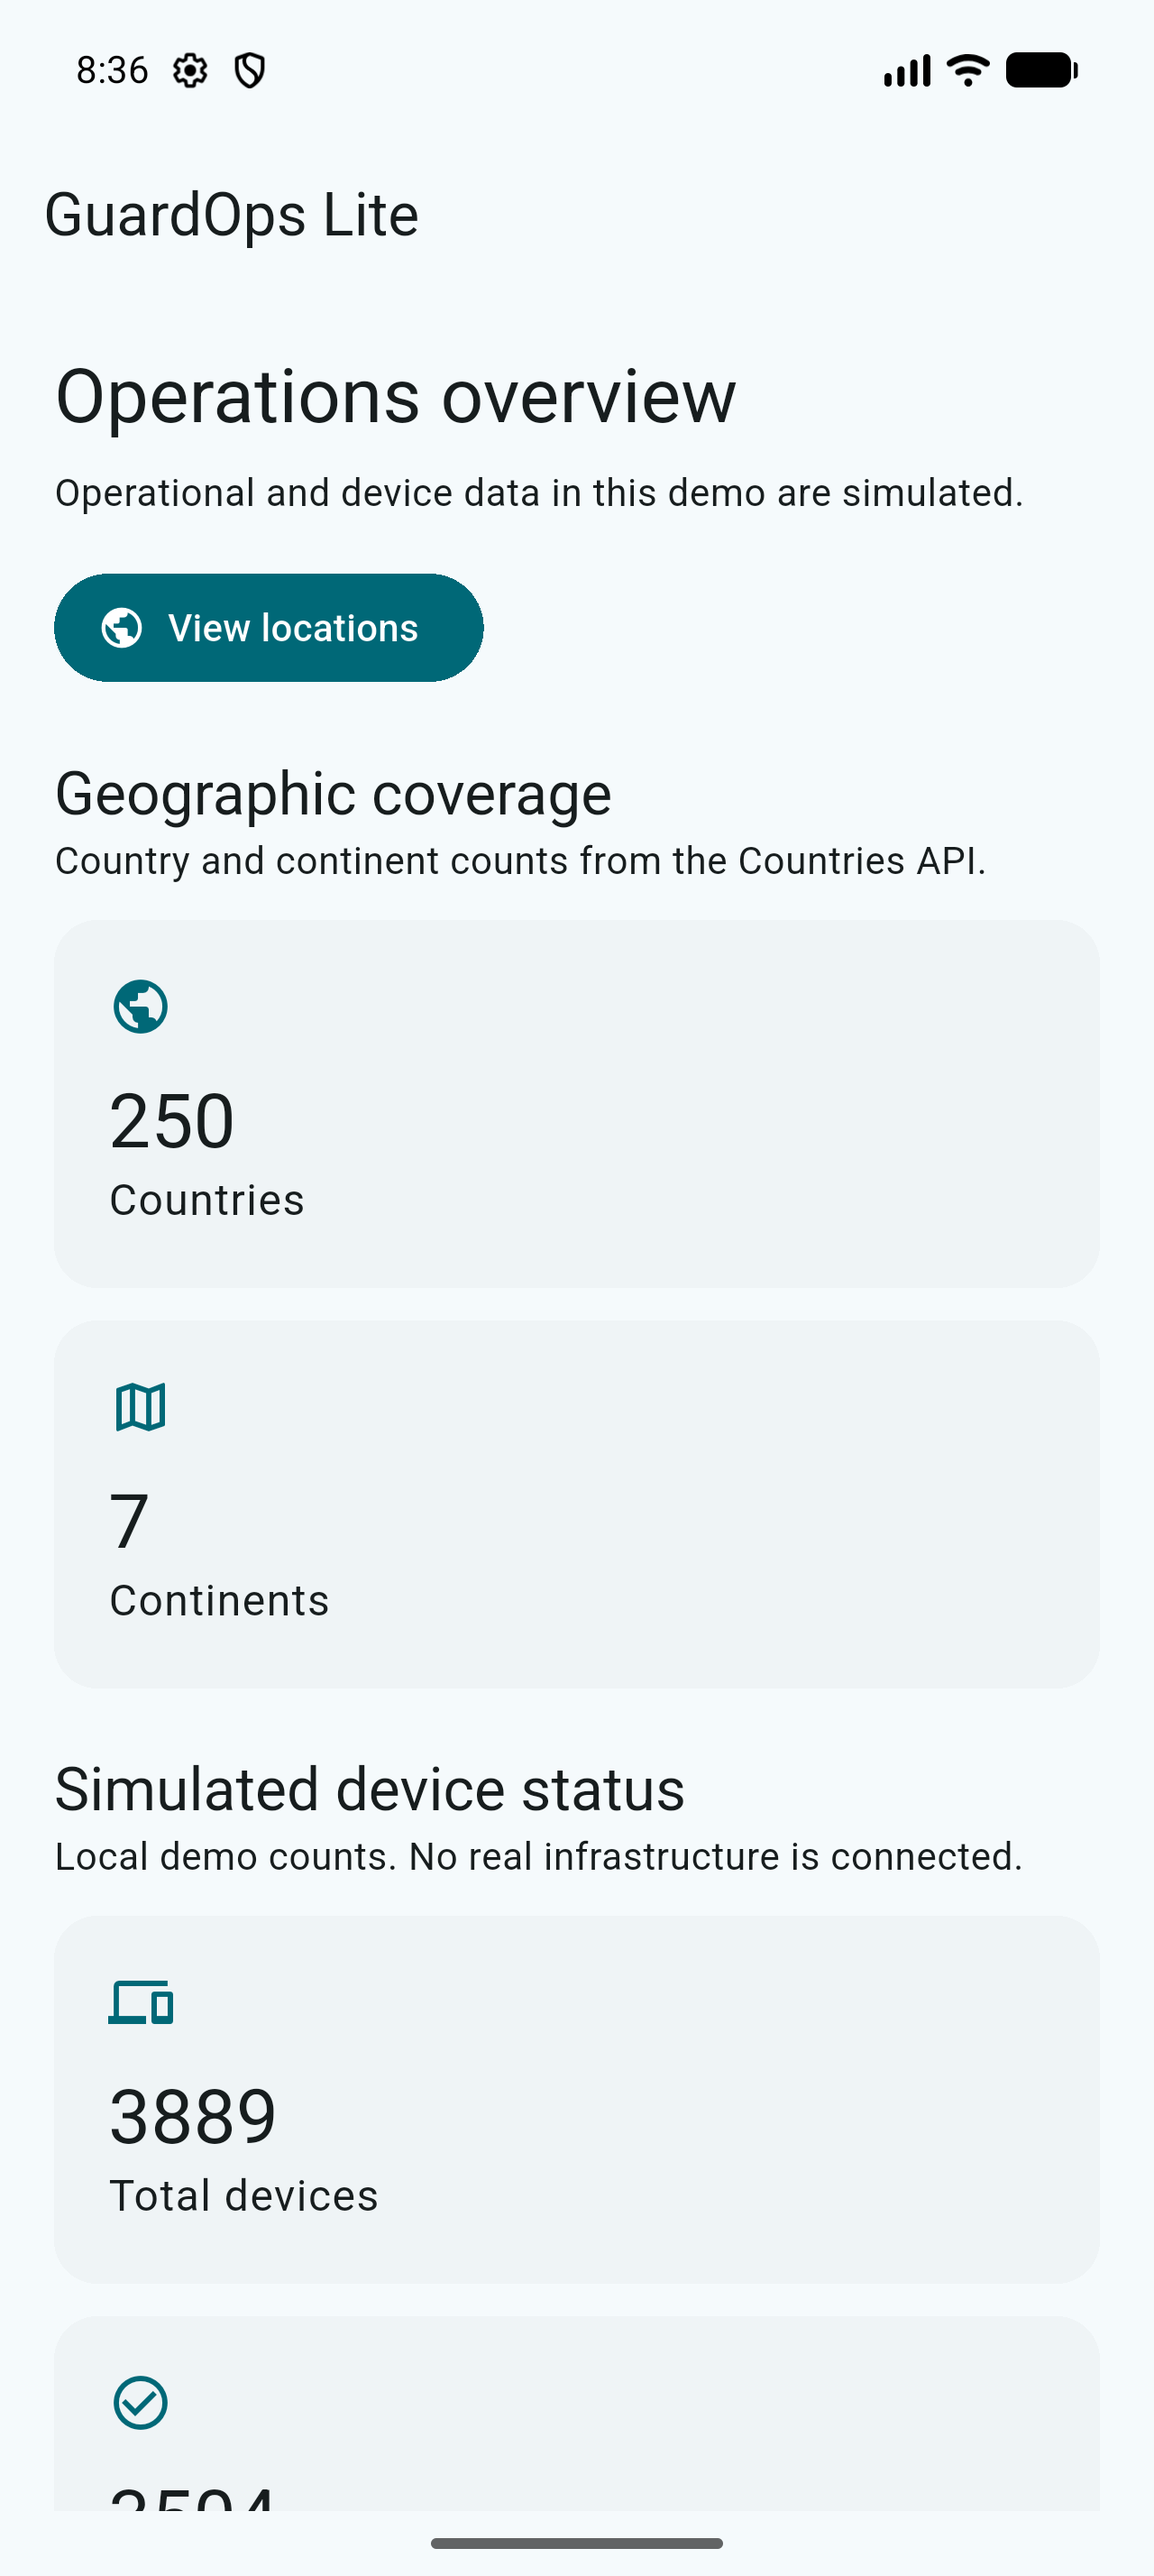
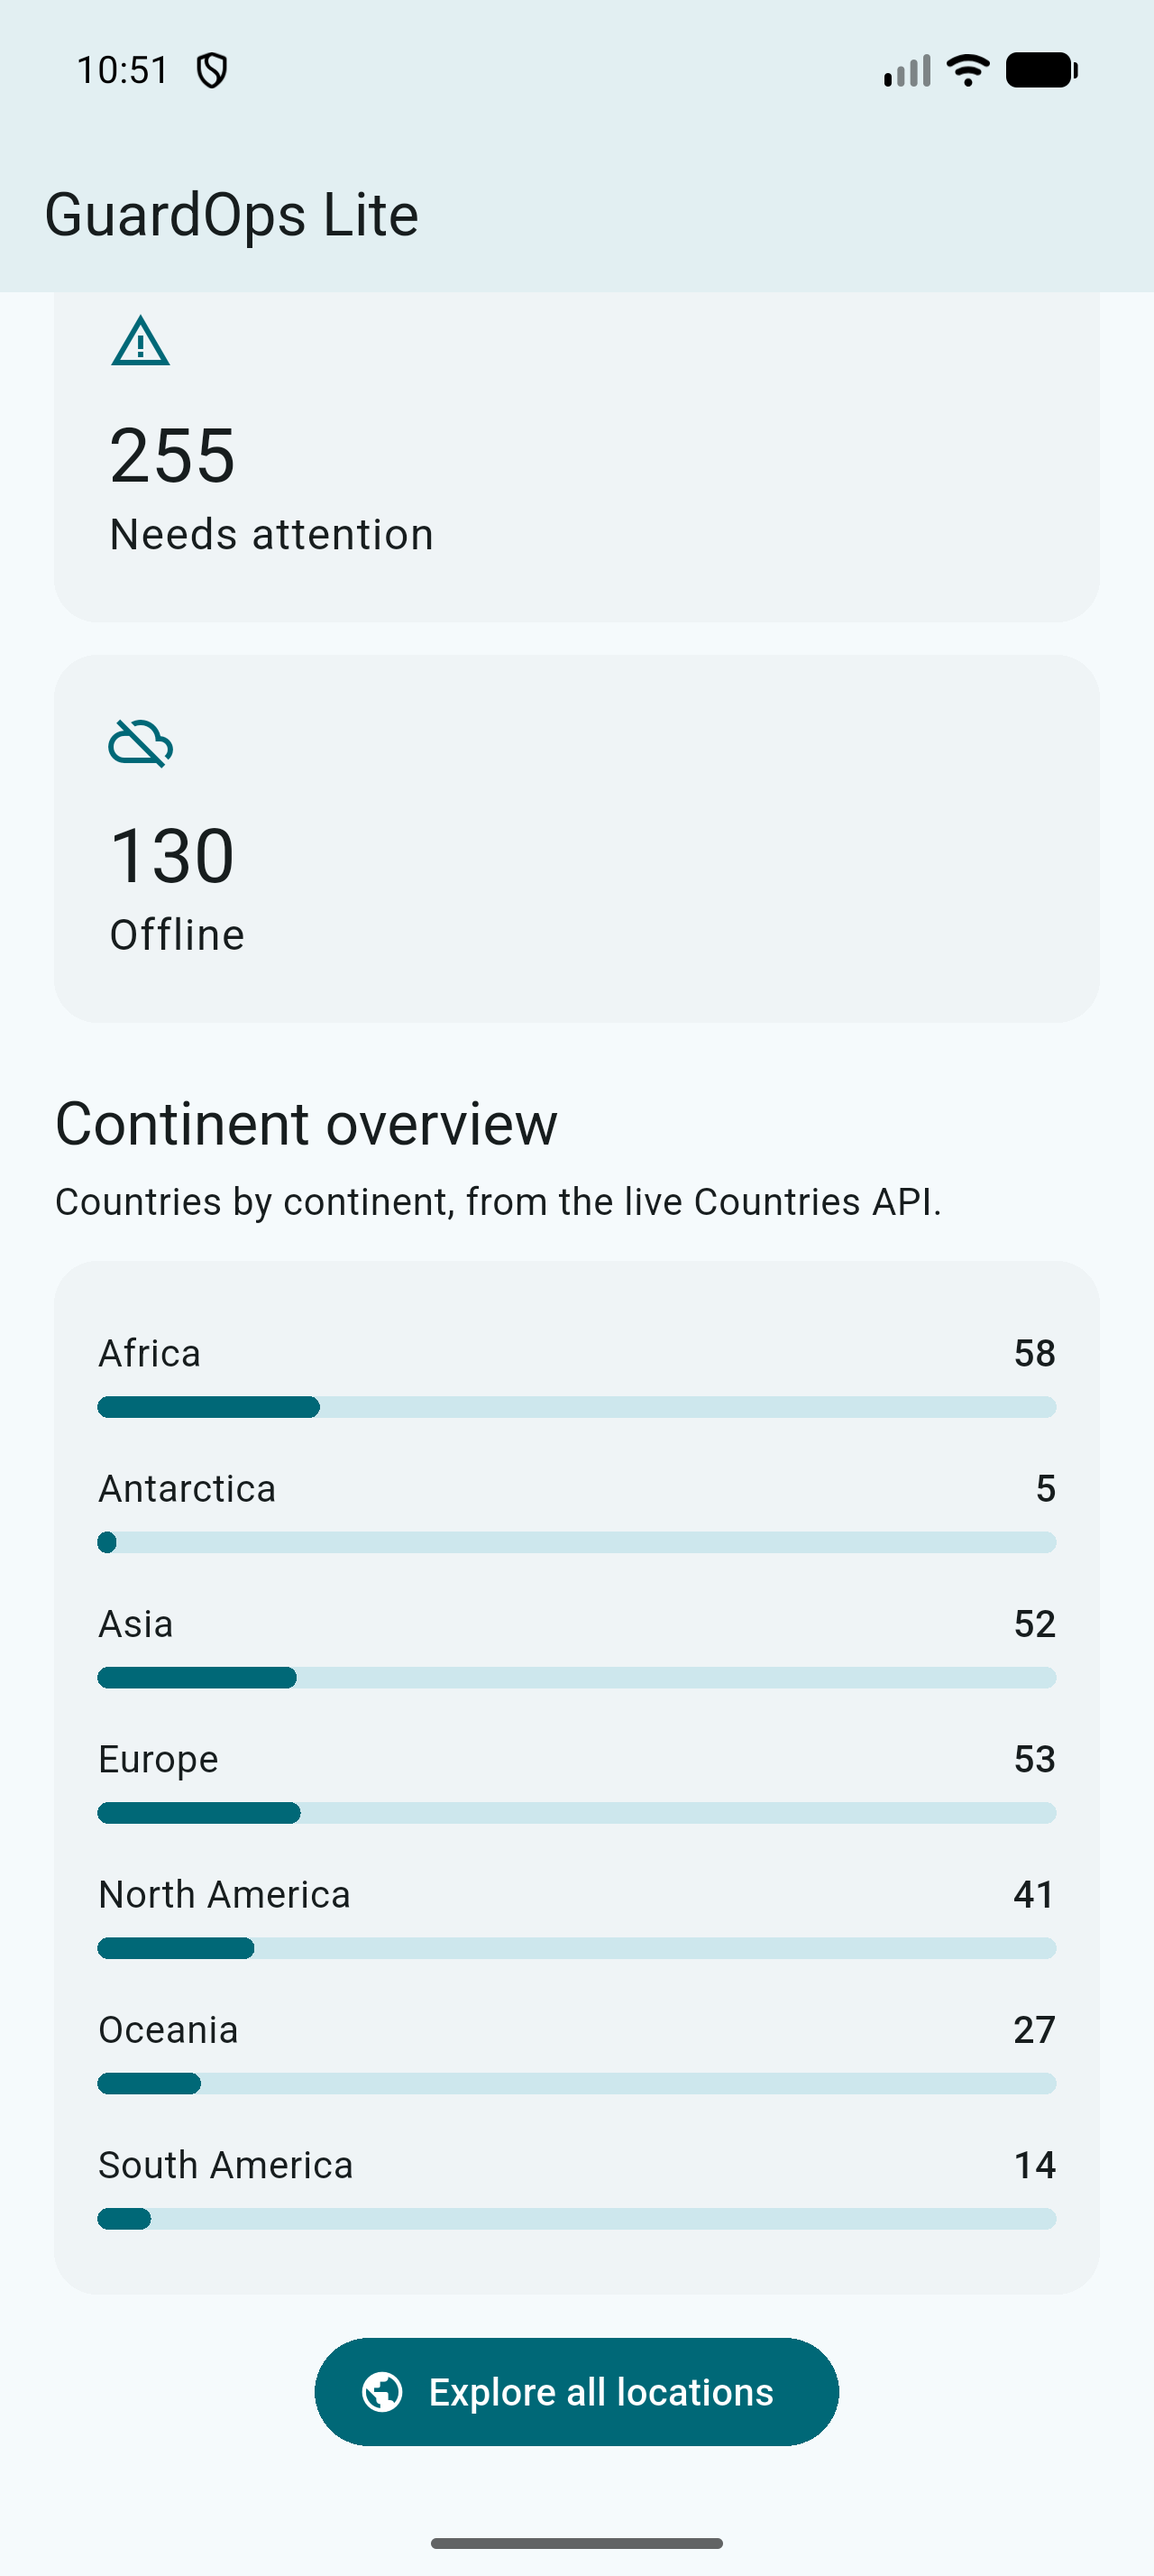
feat: add continent overview to dashboard

diff --git a/lib/views/dashboard_screen.dart b/lib/views/dashboard_screen.dart
@@ -31,15 +31,6 @@ class DashboardScreen extends StatelessWidget {
                     'Operational and device data in this demo are simulated.',
                   ),
                   const SizedBox(height: 16),
-                  Align(
-                    alignment: Alignment.centerLeft,
-                    child: FilledButton.icon(
-                      onPressed: onViewLocations,
-                      icon: const Icon(Icons.public),
-                      label: const Text('View locations'),
-                    ),
-                  ),
-                  const SizedBox(height: 24),
                   if (state.isLoading)
                     const LinearProgressIndicator(
                       semanticsLabel: 'Loading overview',
@@ -122,34 +113,49 @@ class DashboardScreen extends StatelessWidget {
                     ),
                     const SizedBox(height: 24),
                     Text(
-                      'Locations summary',
+                      'Continent overview',
                       style: Theme.of(context).textTheme.titleLarge,
+                    ),
+                    const SizedBox(height: 4),
+                    const Text(
+                      'Countries by continent, from the live Countries API.',
                     ),
                     const SizedBox(height: 12),
                     if (state.countries.isEmpty)
                       const Text(
                         'No countries available. Open Locations to refresh.',
                       )
-                    else ...[
-                      const Text(
-                        'First locations alphabetically. View locations to explore all countries.',
-                      ),
-                      const SizedBox(height: 8),
+                    else
                       Card(
-                        child: Column(
-                          children: [
-                            for (final country in state.locationPreview)
-                              ListTile(
-                                leading: ExcludeSemantics(
-                                  child: Text(country.emoji),
+                        child: Padding(
+                          padding: const EdgeInsets.all(16),
+                          child: Column(
+                            children: [
+                              for (final summary
+                                  in state.continentCountryCounts)
+                                Padding(
+                                  padding: const EdgeInsets.symmetric(
+                                    vertical: 8,
+                                  ),
+                                  child: _ContinentRow(
+                                    name: summary.name,
+                                    count: summary.count,
+                                    total: state.countryCount,
+                                  ),
                                 ),
-                                title: Text(country.name),
-                                subtitle: Text(country.continent.name),
-                              ),
-                          ],
+                            ],
+                          ),
                         ),
                       ),
-                    ],
+                    const SizedBox(height: 12),
+                    Align(
+                      alignment: Alignment.center,
+                      child: FilledButton.icon(
+                        onPressed: onViewLocations,
+                        icon: const Icon(Icons.public),
+                        label: const Text('Explore all locations'),
+                      ),
+                    ),
                   ],
                 ],
               ),
@@ -207,4 +213,41 @@ class _MetricCard extends StatelessWidget {
       ),
     ),
   );
+}
+
+/// A responsive data row; distribution uses the full API country count.
+class _ContinentRow extends StatelessWidget {
+  const _ContinentRow({
+    required this.name,
+    required this.count,
+    required this.total,
+  });
+
+  final String name;
+  final int count;
+  final int total;
+
+  @override
+  Widget build(BuildContext context) {
+    final ratio = total == 0 ? 0.0 : count / total;
+    return Column(
+      crossAxisAlignment: CrossAxisAlignment.stretch,
+      children: [
+        Row(
+          children: [
+            Expanded(child: Text(name)),
+            const SizedBox(width: 12),
+            Text('$count', style: Theme.of(context).textTheme.labelLarge),
+          ],
+        ),
+        const SizedBox(height: 6),
+        LinearProgressIndicator(
+          value: ratio.clamp(0.0, 1.0),
+          minHeight: 8,
+          borderRadius: BorderRadius.circular(8),
+          semanticsLabel: '$name: $count of $total countries',
+        ),
+      ],
+    );
+  }
 }

diff --git a/test/views/dashboard_screen_test.dart b/test/views/dashboard_screen_test.dart
@@ -43,10 +43,13 @@ void main() {
       find.text('Local demo counts. No real infrastructure is connected.'),
       findsOneWidget,
     );
-    await tester.ensureVisible(find.text('Locations summary'));
+    await tester.ensureVisible(find.text('Continent overview'));
     await tester.pumpAndSettle();
-    expect(find.text('Germany'), findsOneWidget);
-    expect(find.text('Japan'), findsOneWidget);
+    expect(find.text('Europe'), findsOneWidget);
+    expect(find.text('Asia'), findsOneWidget);
+    expect(find.text('Explore all locations'), findsOneWidget);
+    expect(find.text('Germany'), findsNothing);
+    expect(find.text('Japan'), findsNothing);
   });
   testWidgets('failure offers retry and empty success shows zero devices', (
     tester,
@@ -79,12 +82,12 @@ void main() {
       addTearDown(tester.platformDispatcher.clearTextScaleFactorTestValue);
       await show(tester);
       await tester.pumpAndSettle();
-      await tester.ensureVisible(find.text('Locations summary'));
+      await tester.ensureVisible(find.text('Continent overview'));
       await tester.pumpAndSettle();
       expect(tester.takeException(), isNull);
-      await tester.ensureVisible(find.text('View locations'));
+      await tester.ensureVisible(find.text('Explore all locations'));
       await tester.pumpAndSettle();
-      await tester.tap(find.text('View locations'));
+      await tester.tap(find.text('Explore all locations'));
       await tester.pumpAndSettle();
       expect(find.text('Locations'), findsOneWidget);
       expect(repository.countryCalls, 1);

diff --git a/lib/viewmodels/operations_state.dart b/lib/viewmodels/operations_state.dart
@@ -2,6 +2,19 @@ import '../models/continent_model.dart';
 import '../models/location_model.dart';
 import '../models/operational_stats.dart';
 
+/// API-derived number of countries within a continent.
+class ContinentCountryCount {
+  const ContinentCountryCount({
+    required this.code,
+    required this.name,
+    required this.count,
+  });
+
+  final String code;
+  final String name;
+  final int count;
+}
+
 class OperationsState {
   OperationsState({
     List<LocationModel> countries = const [],
@@ -25,8 +38,27 @@ class OperationsState {
   final OperationalStats operationalStats;
   int get countryCount => countries.length;
   int get continentCount => continents.length;
-  List<LocationModel> get locationPreview =>
-      List.unmodifiable(countries.take(3));
+
+  /// Uses the complete API dataset, independent of the Locations search/filter.
+  /// Includes continents with zero countries when returned by the API.
+  List<ContinentCountryCount> get continentCountryCounts {
+    final totals = <String, int>{};
+    for (final country in countries) {
+      totals.update(
+        country.continent.code,
+        (count) => count + 1,
+        ifAbsent: () => 1,
+      );
+    }
+    return List.unmodifiable([
+      for (final continent in continents)
+        ContinentCountryCount(
+          code: continent.code,
+          name: continent.name,
+          count: totals[continent.code] ?? 0,
+        ),
+    ]);
+  }
 
   List<LocationModel> get visibleCountries {
     final search = query.trim().toLowerCase();

diff --git a/test/viewmodels/dashboard_state_test.dart b/test/viewmodels/dashboard_state_test.dart
@@ -23,7 +23,11 @@ void main() {
     await bloc.stream.first;
     expect(bloc.state.visibleCountries, hasLength(1));
     expect(bloc.state.countryCount, 2);
-    expect(bloc.state.locationPreview, [germany, japan]);
+    expect(bloc.state.continentCountryCounts.map((item) => item.count), [1, 1]);
+    expect(bloc.state.continentCountryCounts.map((item) => item.name), [
+      'Asia',
+      'Europe',
+    ]);
     expect(bloc.state.operationalStats.total, total);
     repository.error = const LocationRepositoryException(
       LocationFailure.network,
@@ -35,5 +39,6 @@ void main() {
     await bloc.refresh();
     expect(bloc.state.operationalStats.total, 0);
     expect(bloc.state.countryCount, 0);
+    expect(bloc.state.continentCountryCounts.map((item) => item.count), [0, 0]);
   });
 }

diff --git a/test/views/responsive_navigation_test.dart b/test/views/responsive_navigation_test.dart
@@ -45,12 +45,12 @@ void main() {
           ),
         );
         await tester.pumpAndSettle();
-        await tester.ensureVisible(find.text('Locations summary'));
+        await tester.ensureVisible(find.text('Continent overview'));
         await tester.pumpAndSettle();
         expect(tester.takeException(), isNull);
-        await tester.ensureVisible(find.text('View locations'));
+        await tester.ensureVisible(find.text('Explore all locations'));
         await tester.pumpAndSettle();
-        await tester.tap(find.text('View locations'));
+        await tester.tap(find.text('Explore all locations'));
         await tester.pumpAndSettle();
         await tester.enterText(find.byType(TextField), 'United');
         await tester.pumpAndSettle();

diff --git a/test/views/location_detail_screen_test.dart b/test/views/location_detail_screen_test.dart
@@ -115,7 +115,10 @@ void main() {
           ),
         ),
       );
-      await tester.tap(find.text('View locations'));
+      await tester.pumpAndSettle();
+      await tester.ensureVisible(find.text('Explore all locations'));
+      await tester.pumpAndSettle();
+      await tester.tap(find.text('Explore all locations'));
       await tester.pumpAndSettle();
       await tester.enterText(find.byType(TextField), 'ger');
       await tester.pumpAndSettle();

diff --git a/README.md b/README.md
@@ -4,7 +4,7 @@ A Flutter portfolio application demonstrating an operations dashboard, live geog
 
 ## Features
 
-- Dashboard with geographic totals, a locations preview, and simulated device status counts.
+- Dashboard with geographic totals, a live continent distribution overview, and simulated device status counts.
 - Country search, continent filtering, pull-to-refresh, and filters preserved after detail navigation.
 - Country details fetched with a parameterized query: capital, currency, code, and continent.
 - Loading, empty, error, and retry states; refresh failures retain previously loaded data.
@@ -12,7 +12,7 @@ A Flutter portfolio application demonstrating an operations dashboard, live geog
 
 ## Screenshots
 
-Captured from the release APK on a Pixel 10 Pro Android 17 emulator with live Countries API data. Counts reflect the capture date. The dashboard continues below the screenshot.
+Captured from the release APK on a Pixel 10 Pro Android 17 emulator with live Countries API data. Counts reflect the capture date. The Dashboard screenshot reflects the previous layout; replace it with a new capture after installing this update.
 
 | Dashboard | Locations | Country details |
 | --- | --- | --- |
